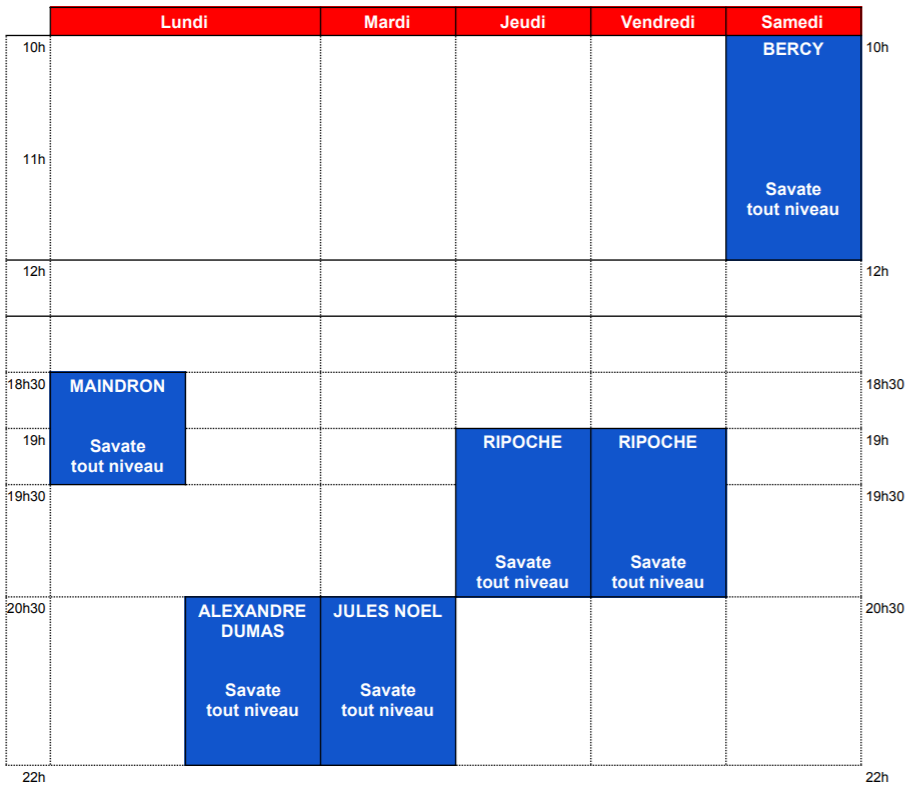
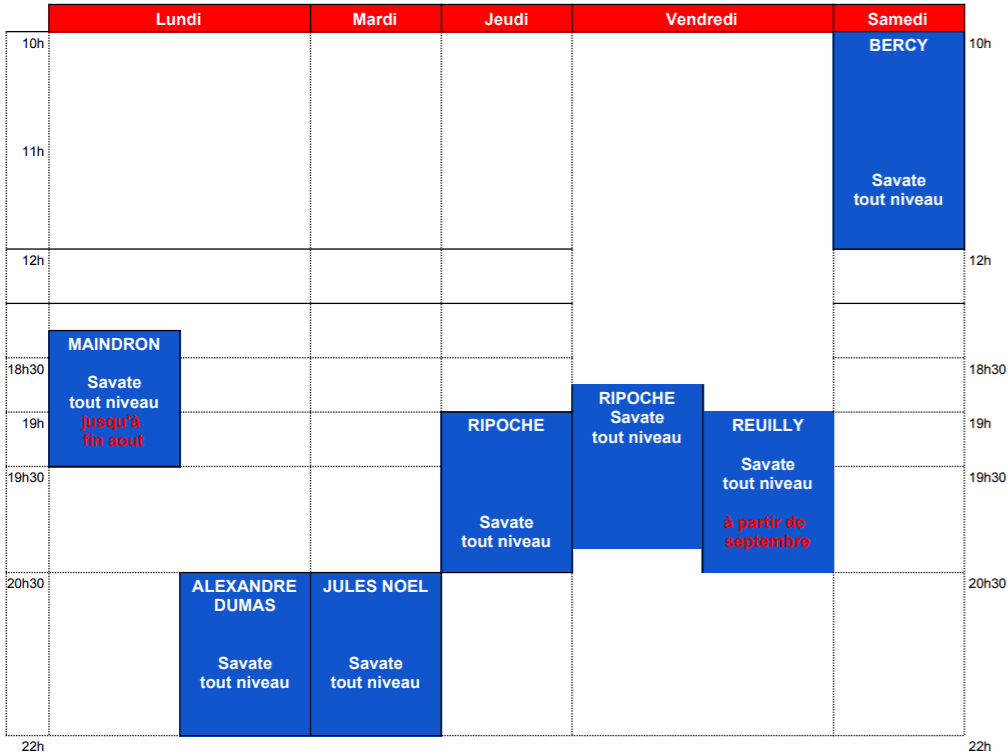
fix: missing files commited

diff --git a/src/pages/planning.js b/src/pages/planning.js
@@ -94,8 +94,8 @@ class Planning extends React.Component {
                                     <tbody>
                                     <tr>
                                         <td>Lundi</td>
-                                        <td>18:30 - 19:30</td>
-                                        <td>Florimont</td>
+                                        <td>18:15 - 19:30</td>
+                                        <td>Maindron (jusqu'à fin août)</td>
                                     </tr>
                                     <tr>
                                         <td>Lundi</td>
@@ -112,9 +112,15 @@ class Planning extends React.Component {
                                         <td>19:00 - 20:30</td>
                                         <td>Ripoche</td>
                                     </tr>
+
                                     <tr>
                                         <td>Vendredi</td>
                                         <td>19:00 - 20:30</td>
+                                        <td>Reuilly (à partir de septembre)</td>
+                                    </tr>
+                                    <tr>
+                                        <td>Vendredi</td>
+                                        <td>18:45 - 20:15</td>
                                         <td>Ripoche</td>
                                     </tr>
                                     <tr>

diff --git a/src/components/Footer.js b/src/components/Footer.js
@@ -5,7 +5,7 @@ const Footer = (props) => (
         <section>
             <h2>Contact</h2>
             <dl className="alt">
-                <dt>Phone</dt>
+                <dt>Téléphone</dt>
                 <dd>07 77 86 30 43</dd>
                 <dt>Email</dt>
                 <dd><a href="#">parissavate@gmail.com</a></dd>
